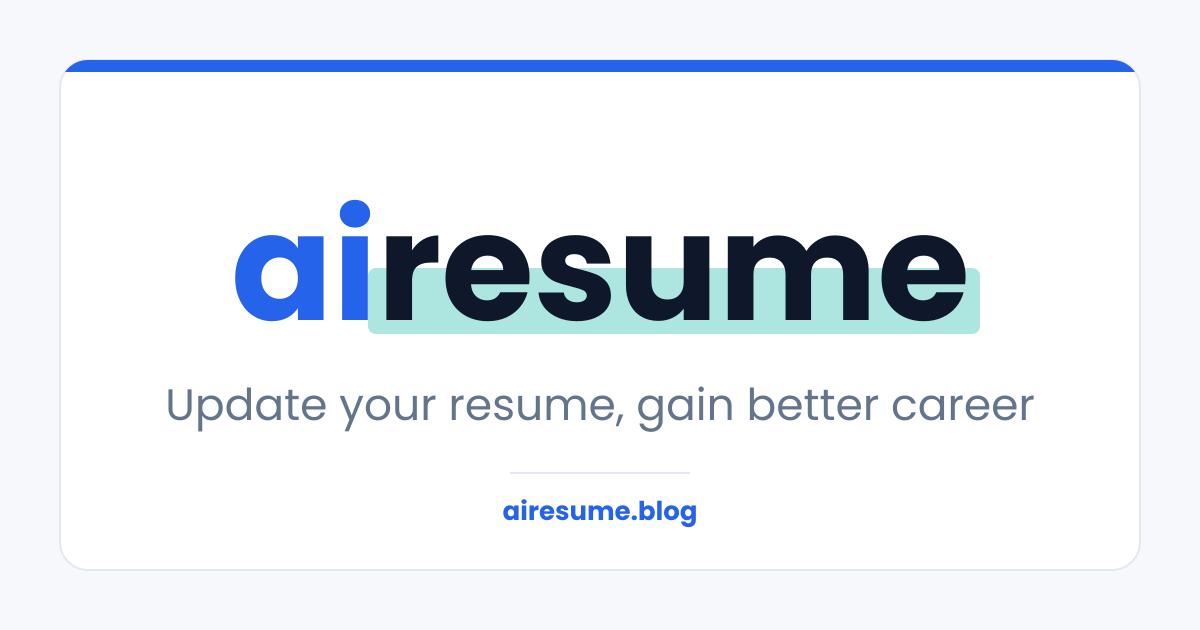
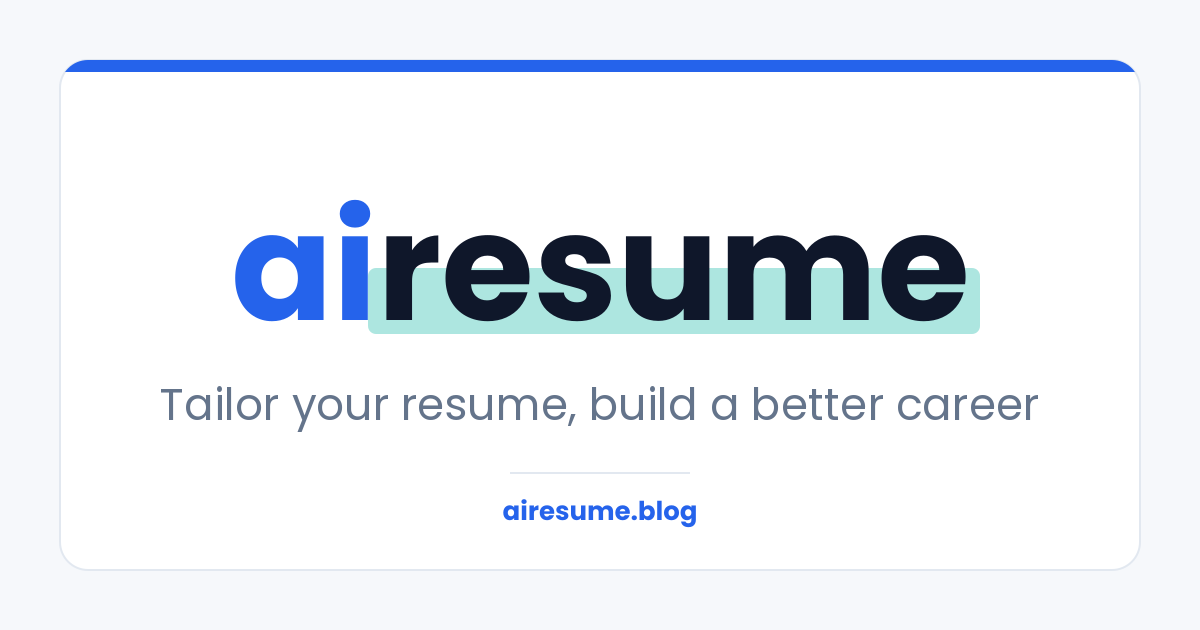
Tagline: Tailor your resume, build a better career
Claude-Session: https://claude.ai/code/session_011uZD3Y2SkzfLXGxU2sU7en

Changed region(s): [[0.1233, 0.6032, 0.8633, 0.6937]]

diff --git a/src/app/components/SiteShell.tsx b/src/app/components/SiteShell.tsx
@@ -92,7 +92,7 @@ export const SiteFooter = () => {
         <div className="foot-brand">
           <Brand />
           <p>
-            Update your resume, build a better career. The airesume editor runs
+            Tailor your resume, build a better career. The airesume editor runs
             in your browser; your resume is not uploaded.
           </p>
         </div>
